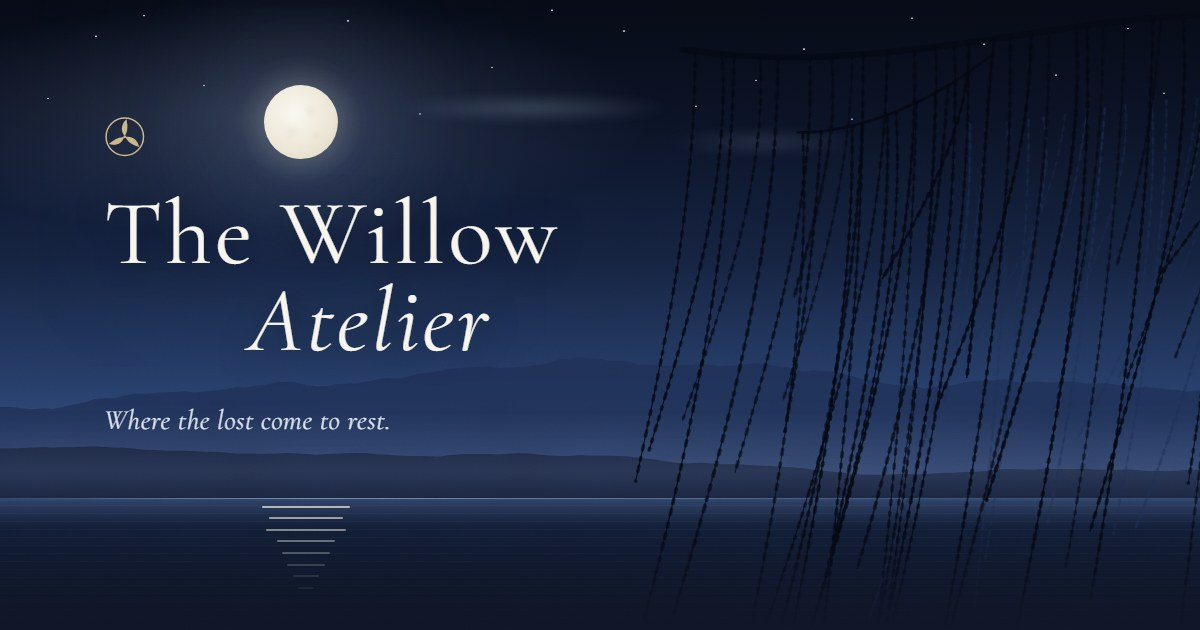
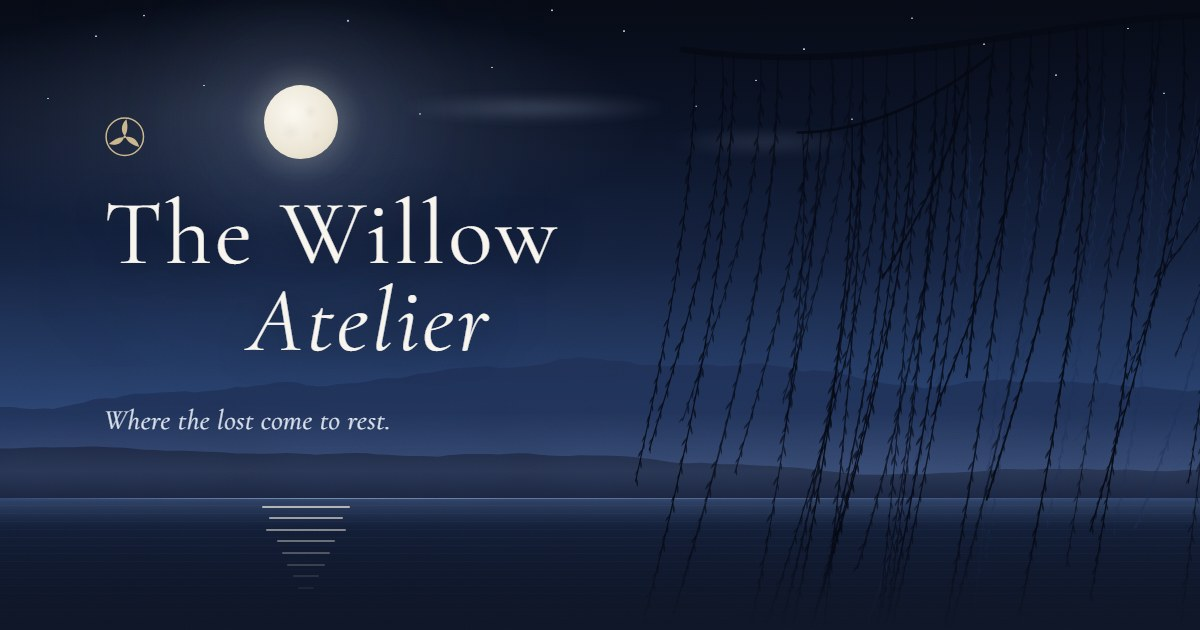
Polish the atelier
Real willow leaves instead of dashes; the willow keeps clear of the
moon and title on portrait tablets too; no doubled kanji in the
Japanese season label; the ink river stays on the paper and ends
before the colophon; long taglines land in about a second.

Changed region(s): [[0.6783, 0.6635, 0.7708, 0.754], [0.7092, 0.573, 0.7708, 0.6032], [0.925, 0.573, 0.9558, 0.6032]]

diff --git a/js/art.js b/js/art.js
@@ -131,7 +131,68 @@
       target.append(word);
     });
     target.style.setProperty('--base', firstTime ? '1.9s' : '0s');
+    // the whole line lands in about a second, however long it is
+    target.style.setProperty('--step', Math.min(45, 1100 / Math.max(1, i)).toFixed(1) + 'ms');
     source.parentElement.classList.add('is-split');
+  }
+
+  /* ------------------------------------------------------------------------
+     Willow leaves. The HTML ships each strand with a dashed stroke as a
+     stand-in; this swaps it for slender leaves angled down the strand.
+     ------------------------------------------------------------------------ */
+
+  function cubicAt(p0, p1, p2, p3, t) {
+    const u = 1 - t;
+    return [
+      u * u * u * p0[0] + 3 * u * u * t * p1[0] + 3 * u * t * t * p2[0] + t * t * t * p3[0],
+      u * u * u * p0[1] + 3 * u * u * t * p1[1] + 3 * u * t * t * p2[1] + t * t * t * p3[1]
+    ];
+  }
+
+  function cubicTangent(p0, p1, p2, p3, t) {
+    const u = 1 - t;
+    const x = 3 * u * u * (p1[0] - p0[0]) + 6 * u * t * (p2[0] - p1[0]) + 3 * t * t * (p3[0] - p2[0]);
+    const y = 3 * u * u * (p1[1] - p0[1]) + 6 * u * t * (p2[1] - p1[1]) + 3 * t * t * (p3[1] - p2[1]);
+    const len = Math.hypot(x, y) || 1;
+    return [x / len, y / len];
+  }
+
+  function leafWillow(svg) {
+    if (!svg) return;
+    const fmt = function (p) {
+      return p[0].toFixed(1) + ' ' + p[1].toFixed(1);
+    };
+    svg.querySelectorAll('.willow__strand').forEach(function (strand, index) {
+      const paths = strand.querySelectorAll('path');
+      const n = paths.length > 1 ? (paths[0].getAttribute('d').match(/-?\d*\.?\d+/g) || []).map(Number) : [];
+      if (n.length < 8) return;
+      const p0 = [n[0], n[1]];
+      const p1 = [n[2], n[3]];
+      const p2 = [n[4], n[5]];
+      const p3 = [n[6], n[7]];
+      const rand = seeded(index + 7);
+      const count = Math.round((Number(strand.dataset.len) || 400) / 12);
+      let d = '';
+      for (let i = 0; i < count; i++) {
+        const t = 0.05 + (0.95 * (i + rand() * 0.6)) / count;
+        const at = cubicAt(p0, p1, p2, p3, t);
+        const tan = cubicTangent(p0, p1, p2, p3, t);
+        const angle = (i % 2 ? 1 : -1) * (0.16 + rand() * 0.24);
+        const dir = [tan[0] * Math.cos(angle) - tan[1] * Math.sin(angle), tan[0] * Math.sin(angle) + tan[1] * Math.cos(angle)];
+        const length = (11 + rand() * 7) * (1 - t * 0.3);
+        const width = length * (0.15 + rand() * 0.05);
+        const tip = [at[0] + dir[0] * length, at[1] + dir[1] * length];
+        const mid = [at[0] + dir[0] * length * 0.5, at[1] + dir[1] * length * 0.5];
+        const c1 = [mid[0] - dir[1] * width, mid[1] + dir[0] * width];
+        const c2 = [mid[0] + dir[1] * width, mid[1] - dir[0] * width];
+        d += 'M' + fmt(at) + 'Q' + fmt(c1) + ' ' + fmt(tip) + 'Q' + fmt(c2) + ' ' + fmt(at) + 'Z';
+      }
+      const leaves = paths[1];
+      leaves.setAttribute('d', d);
+      leaves.removeAttribute('stroke-dasharray');
+      leaves.setAttribute('stroke', 'none');
+      leaves.setAttribute('fill', 'currentColor');
+    });
   }
 
   /* ------------------------------------------------------------------------
@@ -416,6 +477,7 @@
     const season = seasonFor(new Date(), new URLSearchParams(window.location.search).get('season'));
     hero.setAttribute('data-season-now', season);
     applySeasonLabel(season);
+    leafWillow(hero.querySelector('[data-willow]'));
     initRipples(hero);
     if (reduced) return;
 
@@ -538,10 +600,13 @@
       if (!W || !H) return;
       ink.setAttribute('viewBox', '0 0 ' + W + ' ' + H);
       const title = paper.querySelector('.emaki__title');
+      const colophon = paper.querySelector('.emaki__colophon');
       const startX = title ? title.offsetLeft + title.offsetWidth + 24 : 0;
+      const endX = colophon ? colophon.offsetLeft - 40 : W + 20;
       const rand = seeded(19);
       const pts = [];
-      for (let x = startX; x <= W + 240; x += 220 + rand() * 120) pts.push([Math.min(x, W + 20), H * (0.22 + rand() * 0.56)]);
+      for (let x = startX; x < endX; x += 220 + rand() * 120) pts.push([x, H * (0.22 + rand() * 0.56)]);
+      pts.push([endX, H * 0.5]);
       let d = 'M' + pts[0][0].toFixed(1) + ' ' + pts[0][1].toFixed(1);
       for (let i = 0; i < pts.length - 1; i++) {
         const p0 = pts[i - 1] || pts[i];
@@ -736,7 +801,8 @@
 
   window.atelier = {
     seasonFor: seasonFor,
-    splitTagline: splitTagline
+    splitTagline: splitTagline,
+    leafWillow: leafWillow
   };
 
   init();

diff --git a/css/art.css b/css/art.css
@@ -426,6 +426,11 @@ html:not(.js) .art-hero__season {
   display: none;
 }
 
+/* the name already reads 秋の夜 in Japanese */
+html[lang="ja"] .art-hero__season-kanji {
+  display: none;
+}
+
 .art-hero__title {
   font-weight: 400;
   font-size: clamp(3rem, 1.2rem + 7vw, 8rem);
@@ -519,7 +524,7 @@ html[lang="ja"] .art-hero__tagline {
   filter: blur(4px);
   transform: translate3d(0, 0.45em, 0);
   animation: ch-in 1.3s var(--ease-out) forwards;
-  animation-delay: calc(var(--base, 0s) + var(--i) * 45ms);
+  animation-delay: calc(var(--base, 0s) + var(--i) * var(--step, 45ms));
 }
 
 @keyframes ch-in {
@@ -691,7 +696,7 @@ html[lang="ja"] .art-hero__tagline {
   inset: 0;
   width: 100%;
   height: 100%;
-  overflow: visible;
+  overflow: hidden;
   pointer-events: none;
 }
 
@@ -975,8 +980,8 @@ html[lang="ja"] .emaki__ctitle {
   will-change: transform;
 }
 
-@media (max-width: 639.98px) {
-  /* on a narrow screen the willow keeps to the right, clear of the moon and title */
+/* on portrait screens the willow keeps to the right, clear of the moon and title */
+@media (orientation: portrait) and (max-width: 1023.98px) {
   .art {
     --moon-x: 9%;
   }
@@ -984,7 +989,9 @@ html[lang="ja"] .emaki__ctitle {
   .art-hero__willow {
     inset: 0 -12% 32% 30%;
   }
+}
 
+@media (max-width: 639.98px) {
   .emaki {
     --paper-h: min(56svh, 440px);
   }

diff --git a/assets/src/og-art.html b/assets/src/og-art.html
@@ -85,6 +85,7 @@
       </g>
     </symbol>
   </svg>
+  <script src="../../js/art.js"></script>
   <script>
     fetch('../../art/index.html')
       .then(function (res) { return res.text(); })
@@ -93,6 +94,7 @@
         var hero = doc.querySelector('.art-hero');
         hero.querySelectorAll('canvas, [data-split-target]').forEach(function (el) { el.remove(); });
         document.getElementById('hero').replaceWith(hero);
+        if (window.atelier) window.atelier.leafWillow(hero.querySelector('[data-willow]'));
         document.title += ' (ready)';
       });
   </script>
